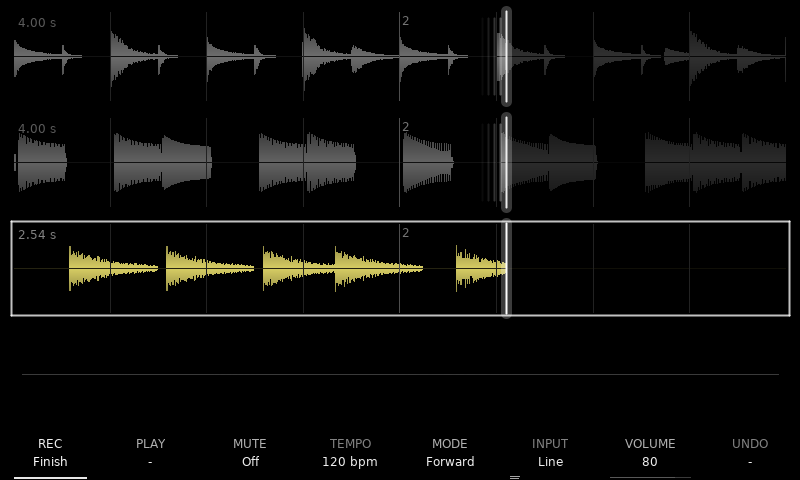
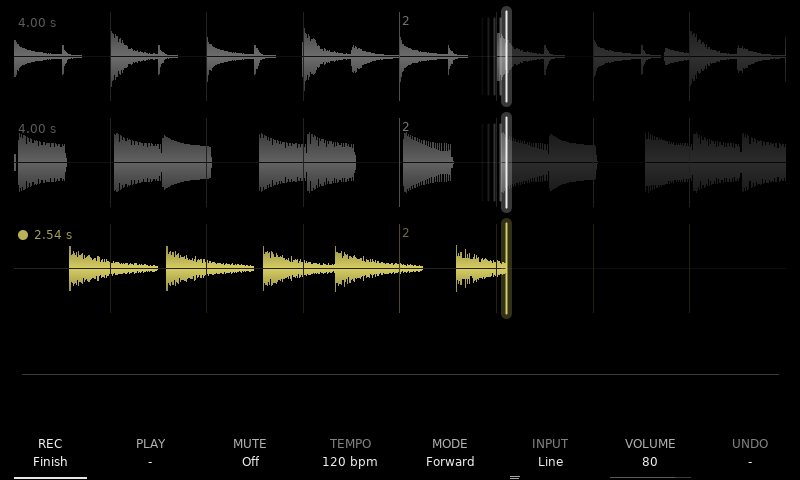
Selected lane yellow throughout; a dot for recording, not a box
The selected lane draws everything in shades of the selection yellow:
waveform, grid, bar numbers, tag, playhead, grains, its messages, and the
line of an empty lane (now full yellow and thicker, so an empty selected
lane shows). Recording no longer outlines the lane: a pulsing dot sits
before the lane's tag, a ring while armed or counting in.

Changed region(s): [[0.0, 0.4375, 1.0, 0.6875]]

diff --git a/src/looper/app.cpp b/src/looper/app.cpp
@@ -64,6 +64,14 @@ uint32_t scale(uint32_t c, float k) {
     return (uint32_t(r8(c) * k) << 16) | (uint32_t(g8(c) * k) << 8) | uint32_t(b8(c) * k);
 }
 
+// A grey as the selection's yellow at the same brightness: how a selected
+// lane draws everything in it.
+uint32_t selShade(uint32_t grey) {
+    uint8_t m = r8(grey) > g8(grey) ? r8(grey) : g8(grey);
+    m = b8(grey) > m ? b8(grey) : m;
+    return scale(kSel, float(m) / float(r8(kSel)));
+}
+
 // Each channel raised by d, clamped (lit edges).
 uint32_t lighten(uint32_t c, int d) {
     auto ch = [&](int v) { return uint32_t(v + d > 255 ? 255 : v + d); };
@@ -1277,25 +1285,13 @@ void App::drawLane(int t, uint32_t now) {
     char buf[48];
 
     // No card: the waveforms sit on the black screen; the selected track is
-    // the one drawn at full brightness, with the selection bar at its left.
+    // the one drawn in yellow.
     (void)y1;
 
     // Waveform inset
     const int wx = kWaveX, wy = y0 + kWaveDy, wx1 = wx + kWaveW, wy1 = wy + kWaveH;
-    if (s == TrackState::kRecording || s == TrackState::kCountIn || s == TrackState::kArmed) {
-        color(s == TrackState::kRecording ? kRed : kAmber);
-        alpha(uint8_t(80 + 150 * pulse(now, 700)));
-        d_->lineWidth(24);
-        d_->begin(Disp::kLineStrip);
-        d_->vertex2f((wx - 3) * 16, (wy - 3) * 16);
-        d_->vertex2f((wx1 + 3) * 16, (wy - 3) * 16);
-        d_->vertex2f((wx1 + 3) * 16, (wy1 + 3) * 16);
-        d_->vertex2f((wx - 3) * 16, (wy1 + 3) * 16);
-        d_->vertex2f((wx - 3) * 16, (wy - 3) * 16);
-        d_->end();
-        words_ += 8;
-        alpha(255);
-    }
+    // The selected lane draws all of it in shades of the selection yellow.
+    auto sh = [sel](uint32_t c) { return sel ? selShade(c) : c; };
 
     if (s == TrackState::kArmed) {
         // Waiting for sound: the input level against the threshold, in dB.
@@ -1304,32 +1300,32 @@ void App::drawLane(int t, uint32_t now) {
         const float lv = pos(in > 0.0001f ? 20.0f * std::log10(in) : -100.0f);
         const float th = pos(thresholdDb(engine_.opt(OptParam::kThreshold)));
         const int mx0 = wx + 60, mx1 = wx1 - 60, my = wy + kWaveH / 2 + 14;
-        color(kAmber);
+        color(sh(kAmber));
         text(wx + kWaveW / 2, wy + 22, kFontSmall, Disp::kOptCenter, "Waiting for sound");
-        color(kFaint);
+        color(sh(kFaint));
         fillRect(mx0, my - 5, mx1, my + 5, 5);
         if (lv > 0.0f) {
-            color(lv >= th ? kRed : kMeter);
+            color(sh(lv >= th ? kRed : kMeter));
             fillRect(mx0, my - 5, mx0 + 10 + int((mx1 - mx0 - 10) * lv), my + 5, 5);
         }
         const int tx = mx0 + int((mx1 - mx0) * th);
-        color(kInk);
+        color(sh(kInk));
         vline(tx, my - 11, my + 11, 32);
         std::snprintf(buf, sizeof buf, "%d dB", int(std::lround(thresholdDb(engine_.opt(OptParam::kThreshold)))));
-        color(kDim);
+        color(sh(kDim));
         text(tx, my + 24, kFontSmall, Disp::kOptCenter, buf);
     } else if (s == TrackState::kCountIn) {
         // Beats left until the take starts, counting down on the beat.
         const uint32_t beat = engine_.barFrames() / (engine_.beatsPerBar() ? engine_.beatsPerBar() : 4);
         const uint32_t left = beat ? (v.startIn.load() + beat - 1) / beat : 0;
         std::snprintf(buf, sizeof buf, "Recording in %lu", static_cast<unsigned long>(left));
-        color(kAmber);
+        color(sh(kAmber));
         text(wx + kWaveW / 2, wy + kWaveH / 2, kFontBig, Disp::kOptCenter, buf);
     } else if (empty) {
-        color(kFaint);
-        hline(wx + 8, wx1 - 8, wy + kWaveH / 2, 16);
+        color(sel ? kSel : kFaint);   // the empty line shows the selection too
+        hline(wx + 8, wx1 - 8, wy + kWaveH / 2, sel ? 24 : 16);
         if (s == TrackState::kClearing) {
-            color(kDim);
+            color(sh(kDim));
             text(wx + kWaveW / 2, wy + kWaveH / 2, kFontSmall, Disp::kOptCenter, "clearing...");
         }
     } else if (waveValid_[t]) {
@@ -1357,9 +1353,9 @@ void App::drawLane(int t, uint32_t now) {
         }
         scissorOff();
 
-        if (!perf_) drawGrid(t, wx, wy, span);   // the effect cells take its place (display-list budget)
+        if (!perf_) drawGrid(t, wx, wy, span, kWaveW, kWaveH, sel);   // the effect cells take its place (display-list budget)
         if (s == TrackState::kQueued) {   // waiting for its bar line
-            color(kAmber);
+            color(sh(kAmber));
             text(wx1 - 24, wy + 2, kFontSmall, Disp::kOptRightX, "starts on the next bar");
         }
         // A pending stop: how many beats are left in the take.
@@ -1368,7 +1364,7 @@ void App::drawLane(int t, uint32_t now) {
             const uint32_t beat = engine_.barFrames() / (engine_.beatsPerBar() ? engine_.beatsPerBar() : 4);
             const uint32_t left = beat ? (stopIn + beat - 1) / beat : 0;
             std::snprintf(buf, sizeof buf, "ends in %lu beat%s", static_cast<unsigned long>(left), left == 1 ? "" : "s");
-            color(kRed);
+            color(sh(kRed));
             text(wx1 - 24, wy + 2, kFontSmall, Disp::kOptRightX, buf);
         }
 
@@ -1378,7 +1374,7 @@ void App::drawLane(int t, uint32_t now) {
             Engine::LoopGrain lg[kLoopGrains];
             const int ng = engine_.loopGrains(t, lg);
             const int mid = (wy + wy1) / 2, gh = (wy1 - wy) / 2 - 6;
-            color(kInk);
+            color(sh(kInk));
             for (int i = 0; i < ng; ++i) {
                 const int gx = wx + int(uint64_t(kWaveW) * (uint32_t(lg[i].pos) % span) / span);
                 int gw = int(uint64_t(kWaveW) * uint32_t(lg[i].width) / span);
@@ -1394,7 +1390,7 @@ void App::drawLane(int t, uint32_t now) {
         // Playhead with a glow, and a fading trail behind it: as long as the
         // read speed (half speed short, double long), on the side it came
         // from (backwards modes, ping-pong's way back: the right).
-        const uint32_t head = s == TrackState::kRecording ? kRed : (s == TrackState::kOverdubbing ? kAmber : kInk);
+        const uint32_t head = sh(s == TrackState::kRecording ? kRed : (s == TrackState::kOverdubbing ? kAmber : kInk));
         if (s == TrackState::kPlaying || s == TrackState::kOverdubbing) {
             const ModeInfo& mi = modeInfo(mode);
             int dir = mi.reverse ? -1 : 1;
@@ -1442,9 +1438,23 @@ void App::drawLane(int t, uint32_t now) {
             n += std::snprintf(tag + n, sizeof tag - size_t(n), "%s%s", n ? "  " : "", modeInfo(mode).name);
         if (muted && n < int(sizeof tag) - 2) std::snprintf(tag + n, sizeof tag - size_t(n), "%sMuted", n ? "  " : "");
         else if (!n) tag[0] = '\0';
-        const int tx = wx + 4, ty = wy + 3;
+        int tx = wx + 4;
+        const int ty = wy + 3;
+        // Recording: a dot before the tag, pulsing; armed or counting in: a ring.
+        const bool rec = s == TrackState::kRecording;
+        if (rec || s == TrackState::kArmed || s == TrackState::kCountIn) {
+            color(sh(kInk));
+            if (rec) alpha(uint8_t(110 + 145 * pulse(now, 700)));
+            dot(tx + 5, ty + 8, 5);
+            alpha(255);
+            if (!rec) {
+                color(0x000000);   // the screen
+                dot(tx + 5, ty + 8, 3);
+            }
+            tx += 16;
+        }
         if (tag[0]) {
-            color(muted ? kMute : (sel ? kDim : scale(kDim, 0.7f)));
+            color(muted ? sh(kMute) : (sel ? selShade(kSoft) : scale(kDim, 0.7f)));
             text(tx, ty, kFontSmall, 0, tag);
         }
     }
@@ -1455,7 +1465,7 @@ void App::drawLane(int t, uint32_t now) {
         alpha(235);
         fillRect(wx + 110, wy + kWaveH / 2 - 16, wx1 - 110, wy + kWaveH / 2 + 16, 8);
         alpha(255);
-        color(kAmber);
+        color(sh(kAmber));
         text(wx + kWaveW / 2, wy + kWaveH / 2, kFontSmall, Disp::kOptCenter, hintText_);
     }
 }
@@ -1983,7 +1993,7 @@ void App::drawStrip(int s) {
 // ---------------------------------------------------------------------------
 // Bar and beat grid over a waveform
 
-void App::drawGrid(int t, int wx, int wy, uint32_t span, int w, int h) {
+void App::drawGrid(int t, int wx, int wy, uint32_t span, int w, int h, bool tint) {
     const uint32_t bar = engine_.barFrames();
     const uint32_t beats = engine_.beatsPerBar() ? engine_.beatsPerBar() : 4;
     if (!bar || !span) return;
@@ -2021,16 +2031,16 @@ void App::drawGrid(int t, int wx, int wy, uint32_t span, int w, int h) {
     uint32_t labStep = barStep;
     while (barPx * float(labStep) < kLabelGap && labStep < 8192) labStep *= 2;
     if (beat && float(beat) * k >= kBeatGap) {
-        color(kBeatLine);
+        color(tint ? selShade(kBeatLine) : kBeatLine);
         lines(off % beat, beat, 96, true);
     }
     // Bar line j (from off) is bar j + 1, or j + 2 when the take starts off a bar.
     const uint32_t j0 = off ? barStep - 1 : 0;
-    color(kBarLine);
+    color(tint ? selShade(kBarLine) : kBarLine);
     lines(off + j0 * bar, bar * barStep, 64, false);
     // Bar numbers: 1 at the take's start, then on the bar lines drawn.
     char buf[8];
-    color(kBarNum);
+    color(tint ? selShade(kBarNum) : kBarNum);
     // On the lanes bar 1 goes without a label (the corner holds the track's
     // length); the editor labels it.
     const bool lane = w == kWaveW;

diff --git a/src/looper/app.h b/src/looper/app.h
@@ -149,7 +149,7 @@ private:
     void drawStrip(int s);
 
     // track options page
-    void drawGrid(int t, int wx, int wy, uint32_t span, int w = kWaveW, int h = kWaveH);
+    void drawGrid(int t, int wx, int wy, uint32_t span, int w = kWaveW, int h = kWaveH, bool tint = false);
 
     // FX page
     static constexpr int kFxPageKnobs = kFxKnobs + 1;   // the type's knobs, then the return

diff --git a/README.md b/README.md
@@ -40,7 +40,7 @@ the selected track and show its state.
 
 ![Four loops playing](docs/img/home.png)
 
-A take in progress, the lane outlined, the REC key showing what a press does:
+A take in progress, a pulsing dot by the lane's tag, the REC key showing what a press does:
 
 ![Recording the third track](docs/img/recording.png)
 
@@ -207,11 +207,13 @@ eight screen keys, each centred over its key as on the stock Tracker. The whole
 interface is greys and one colour: every page is plain black with no cards or
 boxes, and whatever is selected (a lane, a row, a strip, a knob, a picked
 mode) is drawn in the yellow of the DIY norns shield's OLED, the rest
-in dimmer greys. The four tracks are told apart by slightly different greys (only
+in dimmer greys; the selected lane is yellow throughout (waveform, grid, tag,
+playhead, and its line when empty). The four tracks are told apart by slightly different greys (only
 the popups over the lanes keep a backing, to stay readable). The lanes
 are waveforms only, the full width of the screen; a tag in each lane's corner
 gives its number and, when they apply, its length, mode (other than Forward)
-and Muted. The selected track's state is on the keys: REC lights up while it
+and Muted. A lane that records has a pulsing dot before its tag (a ring
+while it is armed or counting in). The selected track's state is on the keys: REC lights up while it
 records (brightest, pulsing; a softer pulse for an overdub, dim during a count-in
 or while armed), PLAY lights while it plays (dim while it waits for its bar line), MUTE
 while it is muted.
